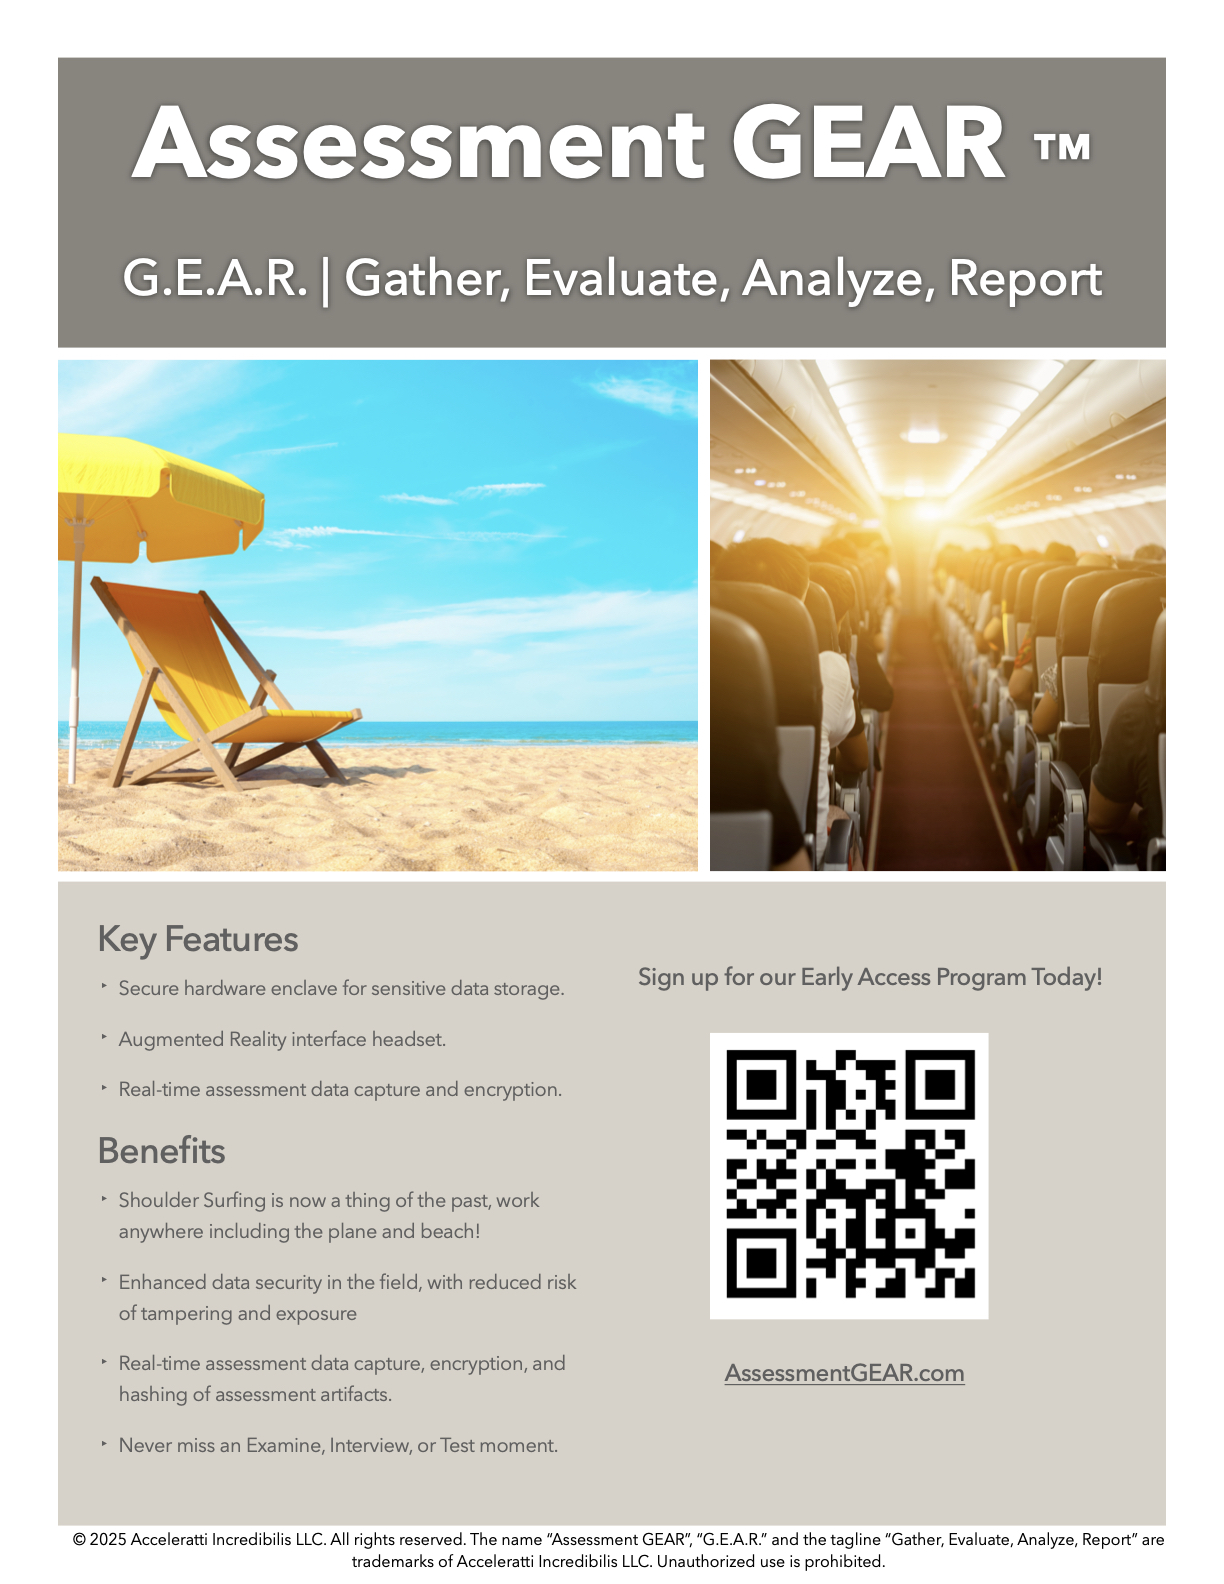
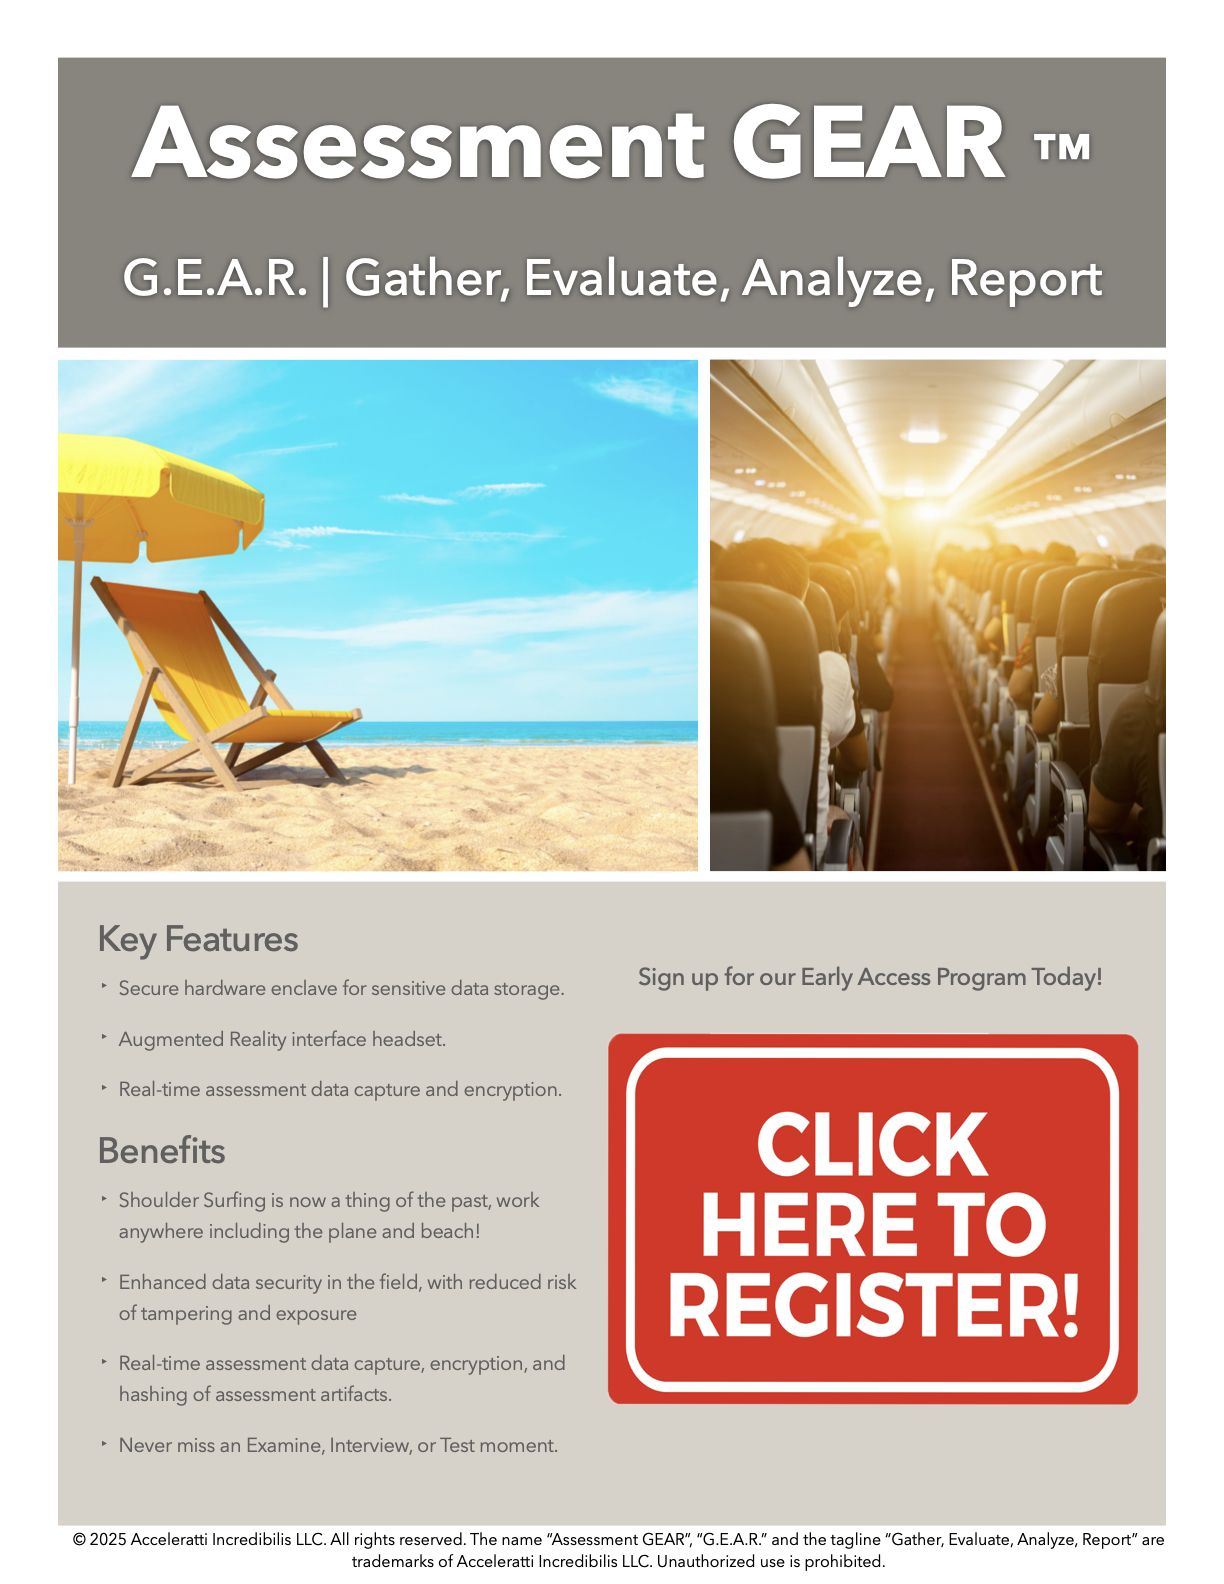
Updated Call ro Action. Add Sucess message.

Changed region(s): [[0.4967, 0.6496, 0.9314, 0.8971]]

diff --git a/success.html b/success.html
@@ -1,3 +1,93 @@
-<html>
-    Thank you for your submission!  We will be reaching out soon with more information.
-</html>
+<!DOCTYPE html PUBLIC "-//W3C//DTD XHTML 1.0 Transitional//EN">
+        <html xmlns="http://www.w3.org/1999/xhtml">
+        <head>
+          <title>Form Submission Confirmation</title>
+          <meta charset="UTF-8"/>
+          <meta name="viewport" content="width=device-width, initial-scale=1.0"/>
+          <meta http-equiv="Content-Type" content="text/html; charset=UTF-8"/>
+          <meta http-equiv="X-UA-Compatible" content="IE=edge,chrome=1"/>
+          <link href="https://fonts.googleapis.com/css?family=Poppins:400,700|Open+Sans:400,700|Source+Code+Pro"
+                rel="stylesheet" data-premailer="ignore" />
+        </head>
+        <body leftmargin="0" marginwidth="0" topmargin="0" marginheight="0" bgcolor="#ffffff" itemscope
+              itemtype="http://schema.org/EmailMessage">
+        
+        <!-- body wrapper -->
+        <table cellpadding="0" cellspacing="0" border="0" bgcolor="#f9f9f8" class="body-wrap">
+          <tr>
+            <td valign="top" align="center">
+        
+              <!-- email wrapper -->
+              <table cellpadding="0" cellspacing="0" border="0" class="email-wrap">
+                <tr>
+                  <td class="container">
+        
+                    <!-- header -->
+                    <table cellpadding="0" cellspacing="0" border="0" class="header">
+                      <tr>
+                        <td align="center">
+                          <p class="email-title">Form Submission Confirmation</p>
+                        </td>
+                      </tr>
+                    </table>
+                    <!-- /header -->
+        
+                    <!-- main wrapper -->
+                    <table cellpadding="0" cellspacing="0" border="0" class="main content">
+                      <tr>
+                        <td class="content-wrap">
+        
+                          <table cellpadding="0" cellspacing="0" border="0" class="message">
+                            <tr>
+                              <td align="center">
+                                <table cellpadding="0" cellspacing="0" border="0" class="form">
+                                  <tr>
+                                    <td>
+                                      <table cellpadding="0" cellspacing="0" border="0">
+                                             <tr>
+                                           <td align="center">
+                                              {{ autoresponse_message }}
+                                           </td>
+                                        </tr>
+                                      </table>
+                                    </td>
+                                  </tr>
+                                  <tr>
+                                    <td align="center" class="content-block">
+                                      <span class="timestamp">Submitted {{ _time }}.</span>
+                                    </td>
+                                  </tr>
+                                </table>
+                              </td>
+                            </tr>
+                          </table>
+                          <!-- /content wrapper -->
+        
+                          <!-- footer -->
+                          <table cellpadding="0" cellspacing="0" border="0" class="footer">
+                            <tr>
+                              <td align="center" class="aligncenter content-block">
+                                Please do not reply to this email, as it will go to an unmonitored address.<br/>
+                                This is an automatic email sent because you submitted a form that uses Formspree.
+                              </td>
+                            </tr>
+                          </table>
+                          <!-- /footer -->
+        
+                        </td>
+                      </tr>
+                    </table>
+                    <!-- /main wrapper -->
+        
+                  </td>
+                </tr>
+              </table>
+              <!-- /email wrapper -->
+        
+            </td>
+          </tr>
+        </table>
+        <!-- /body wrapper -->
+        
+        </body>
+        </html>
